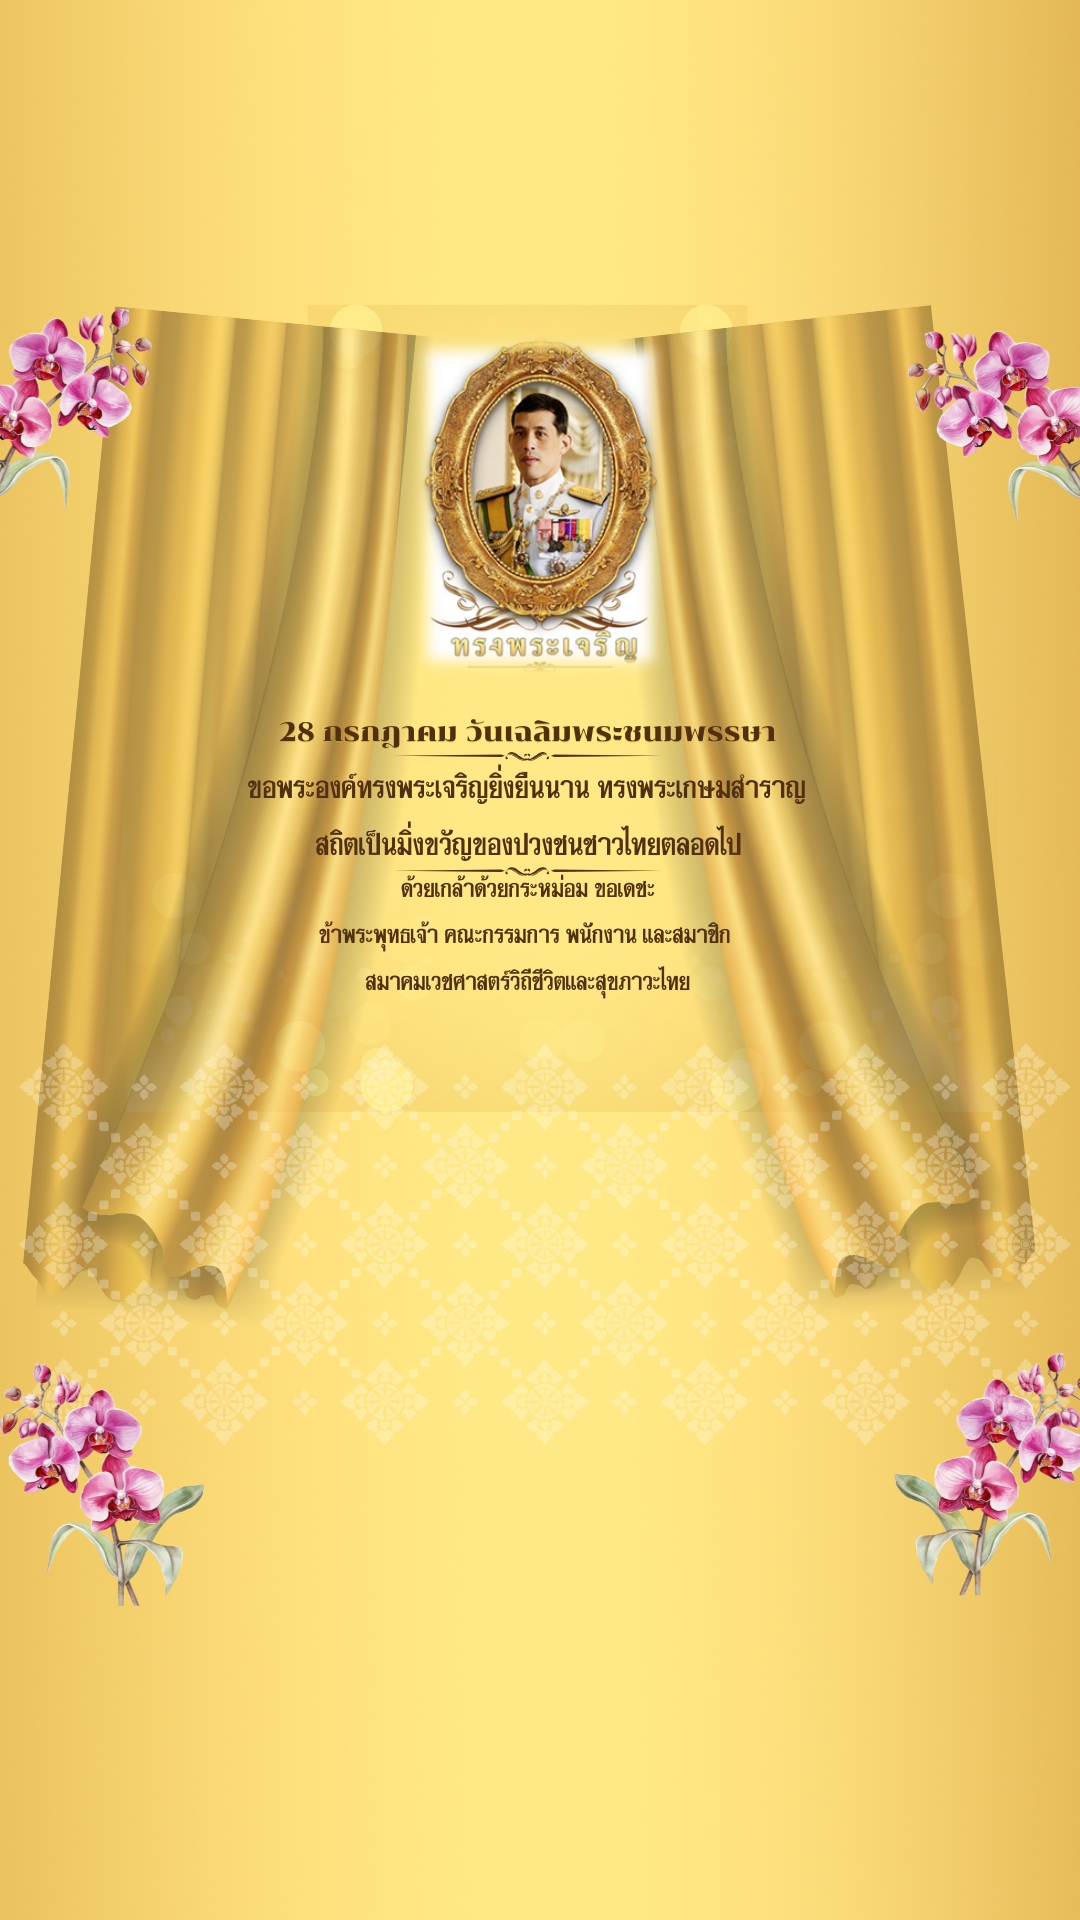
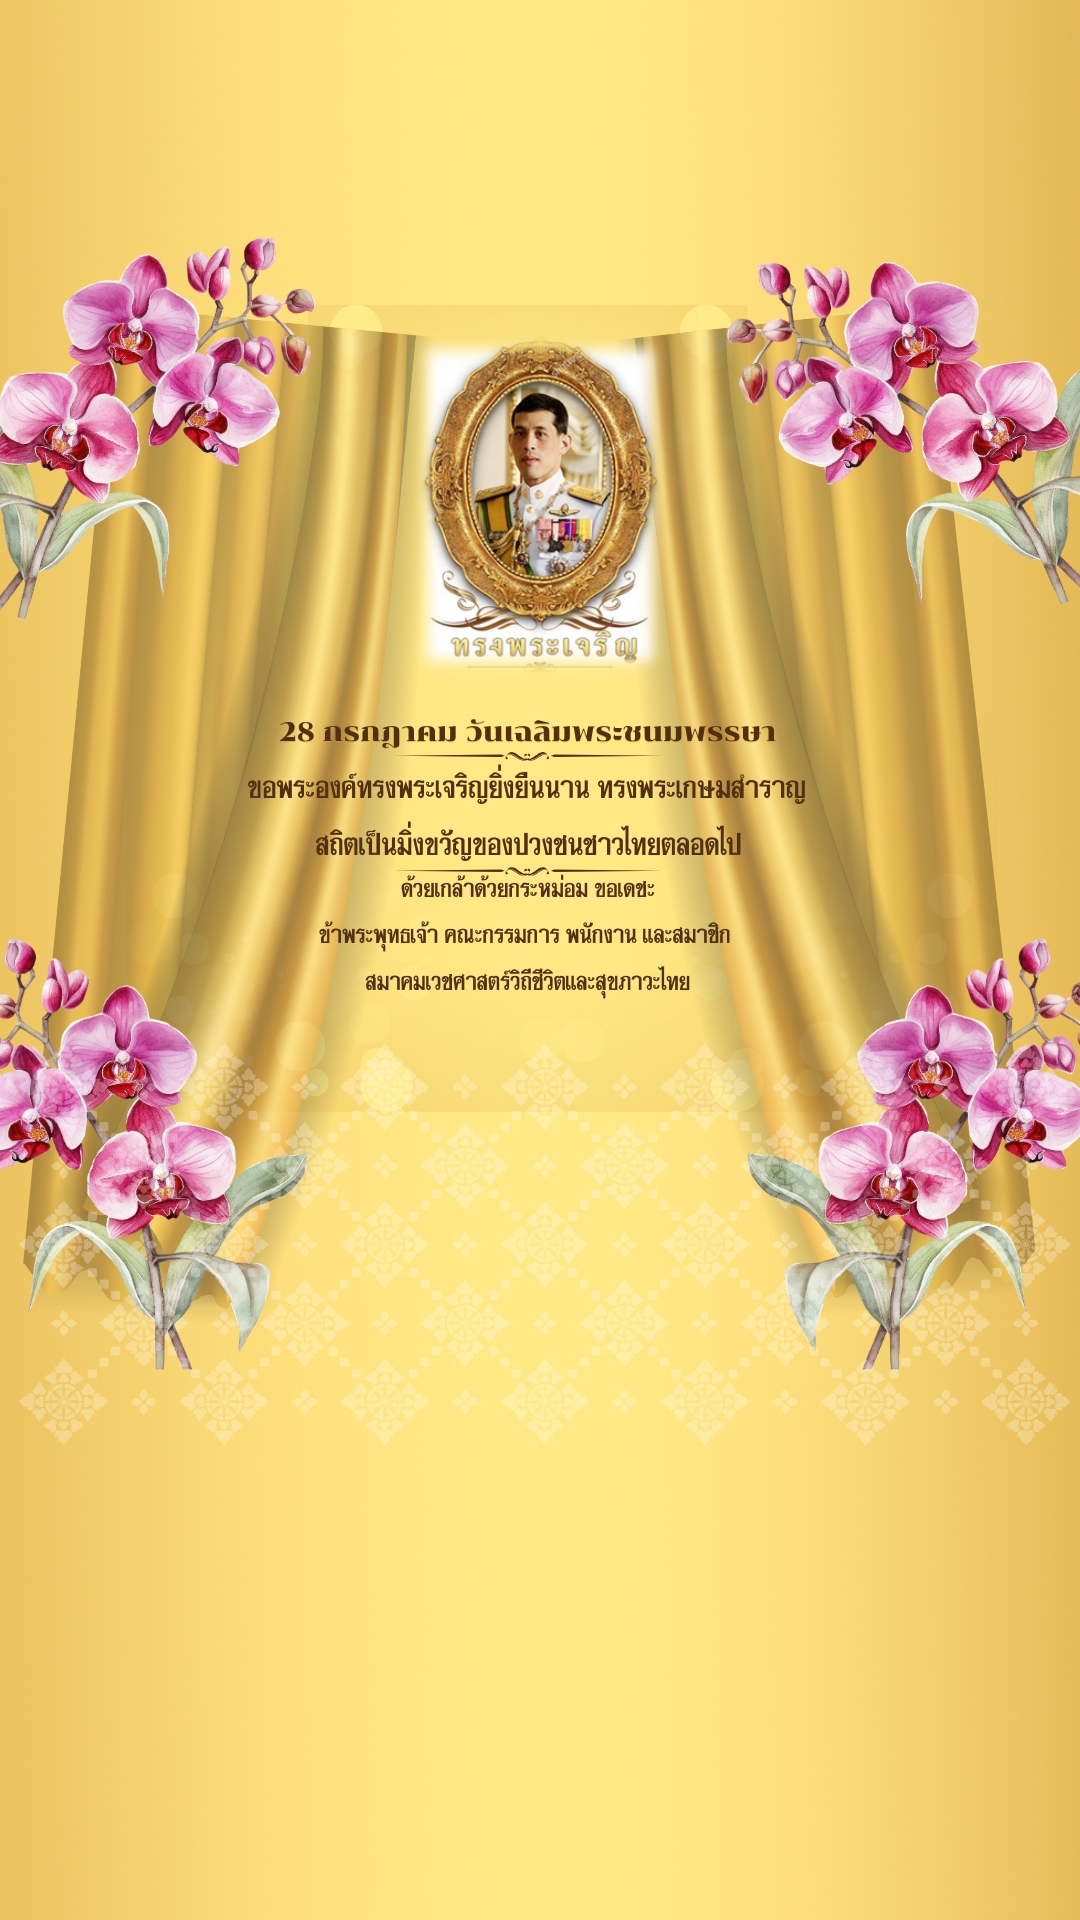
update King10 Full

diff --git a/src/components/advert.jsx b/src/components/advert.jsx
@@ -1,40 +1,46 @@
 import React from 'react';
-import advertImage from '../assets/advert/28 กรกฎาคม.jpg';
+import advertImageXL from '../assets/advert/28 กรกฎาคม XL.jpg';
+import advertImageMD from '../assets/advert/28 กรกฎาคม MD.jpg';
+import advertImageSM from '../assets/advert/28 กรกฎาคม SM.jpg';
 import advertImageMobile from '../assets/advert/28 กรกฎาคม Mobile.jpg';
 
 function Advert({ onEnter }) {
   return (
     <div className="relative w-screen h-screen min-h-screen flex flex-col overflow-hidden bg-[#fcf6de]">
-      {/* รูป BG เต็มจอแบบ Responsive */}
+      {/* Responsive BG Image */}
       <picture>
-        {/* Mobile < md */}
+        {/* 2XL, XL screens */}
         <source
-          srcSet={advertImageMobile}
-          media="(max-width: 767px)"
+          srcSet={advertImageXL}
+          media="(min-width: 1280px)" // Tailwind xl = 1280px, 2xl = 1536px+
         />
-        {/* Desktop >= md */}
+        {/* Desktop (default) */}
+        <source
+          srcSet={advertImageMD}
+          media="(min-width: 768px)" // md = 768px up, but lower than 1280px
+        />
+        {/* Desktop (default) */}
+        <source
+          srcSet={advertImageSM}
+          media="(min-width: 640px)" // sm = 640px up, but lower than 1280px
+        />
+        {/* Mobile */}
         <img
-          src={advertImage}
+          src={advertImageMobile}
           alt="วันเฉลิมพระชนมพรรษา"
           className="absolute inset-0 w-full h-full object-cover object-top z-0 select-none pointer-events-none"
           draggable={false}
         />
       </picture>
-      
-      {/* Layer (Optional: ใส่ overlay ถ้าต้องการ softer หรือ gradient) */}
-      {/* <div className="absolute inset-0 bg-[#fcf6de]/60 z-0"></div> */}
 
-      {/* ปุ่มอยู่ล่างสุด (ซ้อนบน BG) */}
-      <div className="relative z-10 w-full flex flex-1 flex-col justify-end items-center">
-        {/* ตำแหน่งปุ่ม: ล่างสุดพอดี */}
-        <div className="w-full flex justify-center pb-8">
-          <button
-            onClick={onEnter}
-            className="bg-orange-500 hover:bg-orange-600 text-white text-lg font-semibold px-10 py-4 rounded-lg shadow-lg transition"
-          >
-            Enter Website
-          </button>
-        </div>
+      {/* ปุ่มด้านล่าง */}
+      <div className="absolute bottom-0 left-0 w-full h-[20%] flex items-center justify-center z-10">
+        <button
+          onClick={onEnter}
+          className="cursor-pointer bg-orange-500 hover:bg-orange-600 text-white text-lg font-semibold px-10 py-4 rounded-lg shadow-lg transition"
+        >
+          Enter Website
+        </button>
       </div>
     </div>
   );
